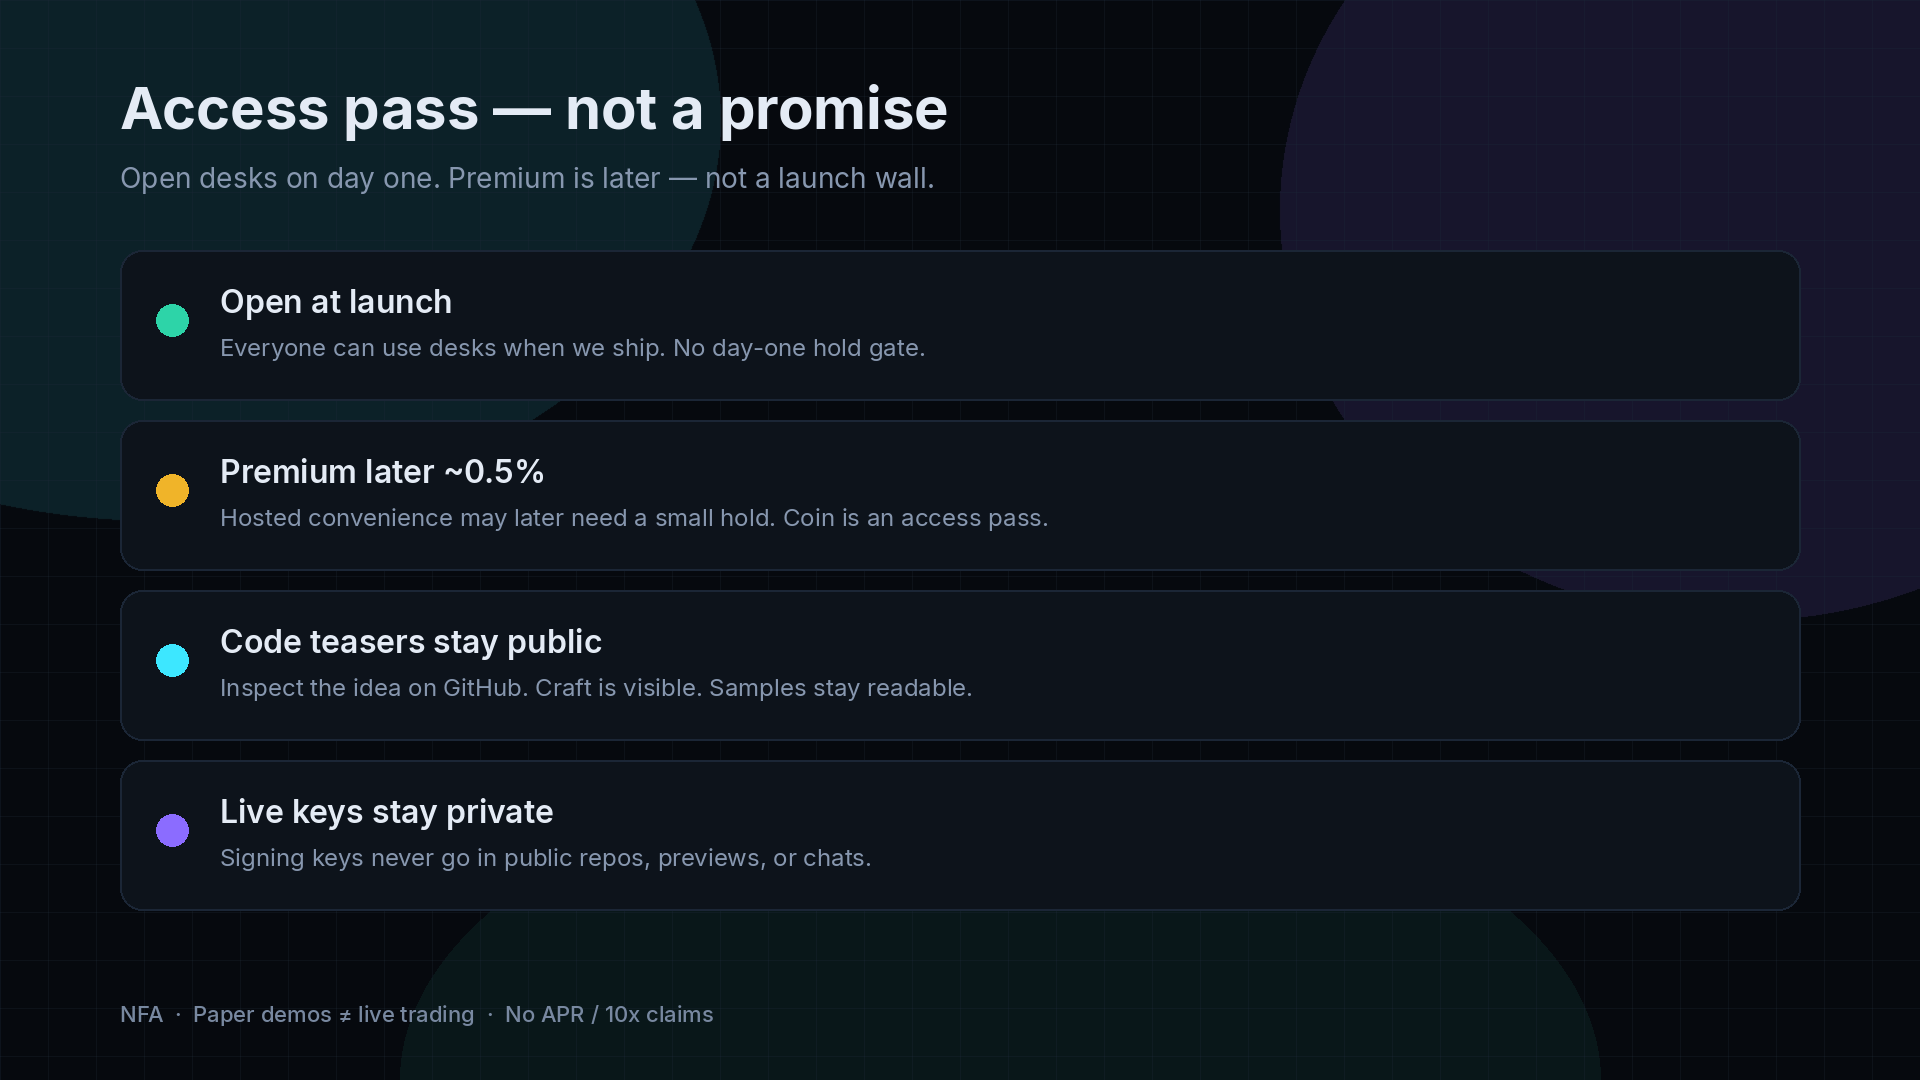
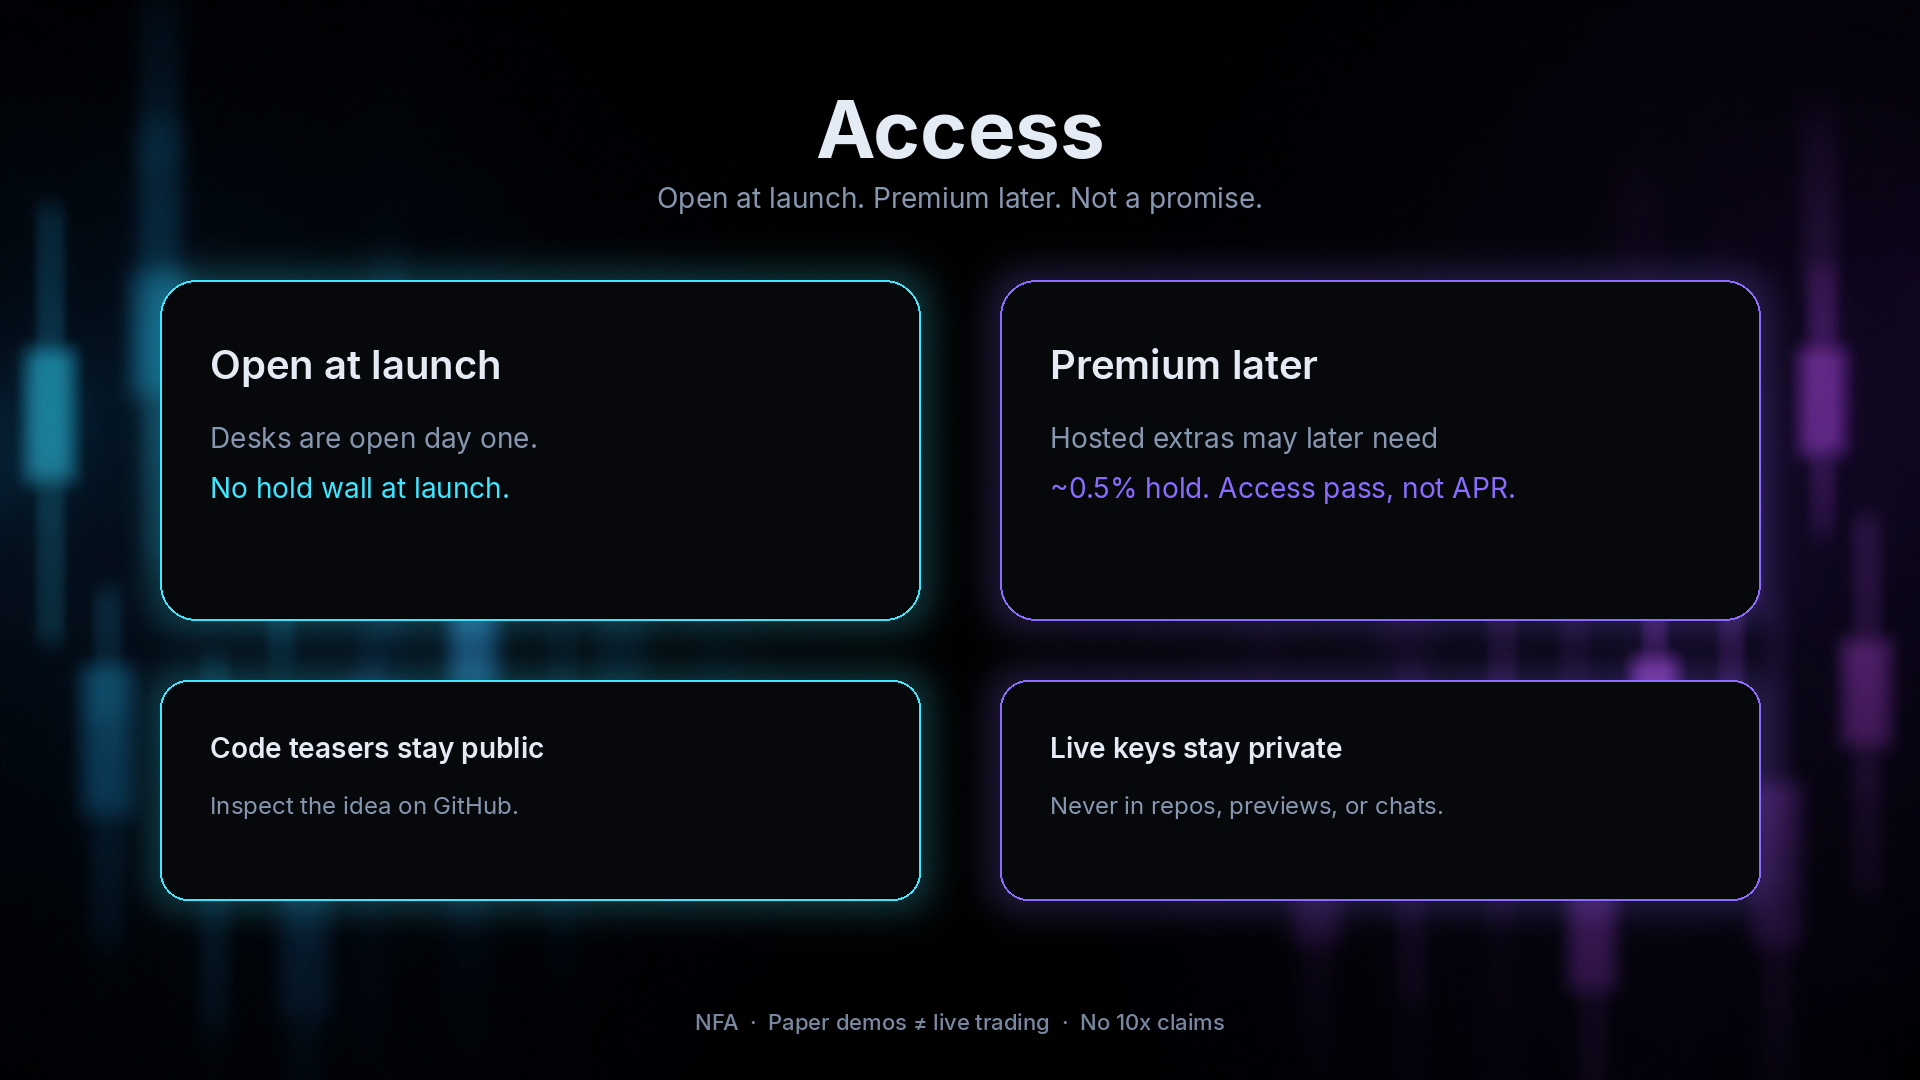
Keep fixed StaRK Bots hero; refresh section art to match
Restore 01-hero.jpg (tight StaRK Bots wordmark) as the live asset.
Redraw how/stack/access as HD glass-fintech graphics on the same
black candle-bokeh floor. Point OG/twitter back to jpg?v=2 and
tighten mobile type/spacing.

diff --git a/docs/index.html b/docs/index.html
@@ -8,10 +8,10 @@
 <meta property="og:title" content="StaRK Bots"/>
 <meta property="og:description" content="Tools you can inspect. Access you hold. Code first. Coin last."/>
 <meta property="og:url" content="https://starkcrypto.github.io/stark-tools/"/>
-<meta property="og:image" content="https://starkcrypto.github.io/stark-tools/assets/01-hero.png?v=3"/>
+<meta property="og:image" content="https://starkcrypto.github.io/stark-tools/assets/01-hero.jpg?v=2"/>
 <meta name="twitter:card" content="summary_large_image"/>
 <meta name="twitter:site" content="@StaRKCryptoBots"/>
-<meta name="twitter:image" content="https://starkcrypto.github.io/stark-tools/assets/01-hero.png?v=3"/>
+<meta name="twitter:image" content="https://starkcrypto.github.io/stark-tools/assets/01-hero.jpg?v=2"/>
 <link rel="icon" href="favicon.svg" type="image/svg+xml"/>
 <link rel="preconnect" href="https://fonts.googleapis.com"/>
 <link rel="preconnect" href="https://fonts.gstatic.com" crossorigin/>
@@ -90,8 +90,21 @@ footer .row{display:flex;flex-wrap:wrap;gap:12px;margin-bottom:16px}
   .nav-links{display:none}
   .menu-btn{display:inline-flex}
   .nav-links.open{display:flex;flex-direction:column;align-items:stretch;position:absolute;right:22px;top:62px;background:var(--panel);border:1px solid var(--line);border-radius:12px;padding:12px;min-width:200px;box-shadow:0 16px 40px rgba(0,0,0,.4)}
-  .hero{padding:32px 0 24px;gap:24px}
-  section{padding:40px 0}
+  .hero{padding:28px 0 20px;gap:20px}
+  section{padding:36px 0}
+  .hero h1{font-size:clamp(30px,9vw,42px);letter-spacing:-.025em}
+  .hero .lead{font-size:16px;margin-bottom:18px}
+  .btn{padding:11px 16px}
+  .statrow{gap:16px}
+  .nav-links.open{left:22px;right:22px;min-width:0}
+}
+@media(max-width:640px){
+  .wrap{padding:0 16px}
+  .cta .btn{flex:1 1 100%}
+  .socials{gap:12px;font-size:12px}
+  .logo{font-size:16px}
+  h2{font-size:clamp(22px,7vw,28px)}
+  .card,.step{min-height:0;padding:16px}
 }
 </style>
 </head>
@@ -125,9 +138,9 @@ footer .row{display:flex;flex-wrap:wrap;gap:12px;margin-bottom:16px}
         <a class="btn btn-ghost" href="https://github.com/StaRKCrypto/stark-tools/blob/main/docs/ABOUT-STARK-BOTS.md">Full article</a>
       </div>
       <div class="socials">
-        <a href="https://x.com/StaRKCryptoBots">X · @StaRKCryptoBots</a>
-        <a href="https://github.com/StaRKCrypto/stark-tools">GitHub</a>
-        <a href="https://www.youtube.com/@starksystems-y2r">YouTube</a>
+        <a href="https://x.com/StaRKCryptoBots" target="_blank" rel="noopener">X · @StaRKCryptoBots</a>
+        <a href="https://github.com/StaRKCrypto/stark-tools" target="_blank" rel="noopener">GitHub</a>
+        <a href="https://www.youtube.com/@starksystems-y2r" target="_blank" rel="noopener">YouTube</a>
       </div>
       <div class="live">
         <span class="chip">● Landing live</span>
@@ -141,13 +154,13 @@ footer .row{display:flex;flex-wrap:wrap;gap:12px;margin-bottom:16px}
         <div class="stat"><strong>Public</strong><span>sample source</span></div>
       </div>
     </div>
-    <div class="hero-media"><img src="assets/01-hero.png?v=3" width="1920" height="1080" alt="StaRK Bots — tools you can inspect, access you hold"/></div>
+    <div class="hero-media"><img src="assets/01-hero.jpg?v=2" width="1600" height="900" alt="StaRK Bots — tools you can inspect, access you hold"/></div>
   </header>
 
   <section id="how">
     <h2>How it works</h2>
     <p class="sub">One pipeline for every desk: prove the idea in public, keep keys private. Desks open at launch; later premium may need ~0.5% hold.</p>
-    <div class="fig"><img src="assets/02-how.png?v=3" width="1920" height="1080" alt="How StaRK Bots works: public teasers, paper demos, open at launch"/></div>
+    <div class="fig"><img src="assets/02-how.png?v=4" width="1920" height="1080" alt="How StaRK Bots works: public teasers, paper demos, open at launch"/></div>
     <div class="steps">
       <div class="step"><div class="n">01 / VERIFY</div><h3>Public teasers</h3><p>Clean sample repos on GitHub. Inspect the craft. No live wallets or signing keys in the open.</p></div>
       <div class="step"><div class="n">02 / WATCH</div><h3>Paper demos</h3><p>Each bot shown end-to-end on @StaRKCryptoBots — scan, arm, paper fill. Clearly labeled demo.</p></div>
@@ -158,7 +171,7 @@ footer .row{display:flex;flex-wrap:wrap;gap:12px;margin-bottom:16px}
   <section id="stack">
     <h2>The stack</h2>
     <p class="sub">First wave of desks with public teasers + demos. Many more in the pipeline.</p>
-    <div class="fig"><img src="assets/03-stack.png?v=3" width="1920" height="1080" alt="StaRK Bots desk stack"/></div>
+    <div class="fig"><img src="assets/03-stack.png?v=4" width="1920" height="1080" alt="StaRK Bots desk stack"/></div>
     <div class="grid" id="bots"></div>
   </section>
 
@@ -181,7 +194,7 @@ footer .row{display:flex;flex-wrap:wrap;gap:12px;margin-bottom:16px}
 
   <section id="access">
     <h2>Access pass — not a promise</h2>
-    <div class="fig"><img src="assets/04-access.png?v=3" width="1920" height="1080" alt="Access pass: open at launch, premium later, keys private"/></div>
+    <div class="fig"><img src="assets/04-access.png?v=4" width="1920" height="1080" alt="Access pass: open at launch, premium later, keys private"/></div>
     <div class="panel">
       <ul>
         <li><strong>Open at launch</strong> — later premium tools may need ~0.5% hold.</li>
@@ -239,7 +252,7 @@ footer .row{display:flex;flex-wrap:wrap;gap:12px;margin-bottom:16px}
     <div class="row">
       <a class="btn btn-primary" href="https://x.com/StaRKCryptoBots">Follow @StaRKCryptoBots</a>
       <a class="btn btn-ghost" href="https://github.com/StaRKCrypto/stark-tools">Star GitHub hub</a>
-      <a class="btn btn-ghost" href="https://www.youtube.com/@starksystems-y2r">YouTube</a>
+      <a class="btn btn-ghost" href="https://www.youtube.com/@starksystems-y2r" target="_blank" rel="noopener">YouTube</a>
       <a class="btn btn-ghost" href="https://x.com/StaRKCryptoBots/status/2100506806254461058">Landing announce</a>
     </div>
     StaRKCrypto · Brand managed by Grok Bot · Personal @_Starkcrypto · MIT on public teasers · NFA<br/>

diff --git a/tools/render_marketing_art.py b/tools/render_marketing_art.py
@@ -9,6 +9,7 @@ from PIL import Image, ImageDraw, ImageFilter, ImageFont
 ROOT = Path(__file__).resolve().parents[1] / "docs"
 ASSETS = ROOT / "assets"
 BG = Path(__file__).resolve().parent / "hero-bg-notext.png"
+SECTION_BG = Path(__file__).resolve().parent / "section-bg-notext.png"
 
 CYAN = (61, 231, 255)
 VIOLET = (139, 108, 255)
@@ -111,61 +112,66 @@ def make_hero() -> None:
     print("wrote", out_png, rgb.size)
 
 
-def card_bg(size=(1920, 1080)) -> Image.Image:
+def section_canvas(size=(1920, 1080)) -> Image.Image:
+    """Black fintech floor matching the live 01-hero.jpg (bokeh candles, empty center)."""
     W, H = size
-    img = Image.new("RGB", (W, H), BG_DARK)
-    d = ImageDraw.Draw(img, "RGBA")
-    d.ellipse((-400, -280, 720, 520), fill=(61, 231, 255, 28))
-    d.ellipse((1280, -200, 2200, 620), fill=(139, 108, 255, 32))
-    d.ellipse((400, 760, 1600, 1400), fill=(45, 212, 168, 18))
-    # faint grid
-    for x in range(0, W, 48):
-        d.line([(x, 0), (x, H)], fill=(27, 38, 54, 90), width=1)
-    for y in range(0, H, 48):
-        d.line([(0, y), (W, y)], fill=(27, 38, 54, 90), width=1)
-    return img.filter(ImageFilter.GaussianBlur(0.4))
+    bg = Image.open(SECTION_BG).convert("RGB").resize((W, H), Image.Resampling.LANCZOS)
+    # Darken the middle so type/cards stay crisp.
+    veil = Image.new("RGBA", (W, H), (0, 0, 0, 70))
+    return Image.alpha_composite(bg.convert("RGBA"), veil)
+
+
+def glass_card(img: Image.Image, box, radius: int, glow: tuple[int, int, int]) -> None:
+    x0, y0, x1, y1 = box
+    glow_layer = Image.new("RGBA", img.size, (0, 0, 0, 0))
+    gd = ImageDraw.Draw(glow_layer)
+    pad = 22
+    gd.rounded_rectangle([x0 - pad, y0 - pad, x1 + pad, y1 + pad], radius=radius + 10, fill=(*glow, 55))
+    img.alpha_composite(glow_layer.filter(ImageFilter.GaussianBlur(18)))
+    d = ImageDraw.Draw(img)
+    d.rounded_rectangle(box, radius=radius, fill=(6, 8, 12, 210), outline=(*glow, 210), width=2)
 
 
 def make_how() -> None:
     W, H = 1920, 1080
-    img = card_bg((W, H)).convert("RGBA")
+    img = section_canvas((W, H))
     d = ImageDraw.Draw(img)
-    title = font("Inter-Bold.ttf", 64)
-    d.text((120, 72), "How it works", font=title, fill=TEXT)
-    sub = font("Inter-Regular.ttf", 28)
-    d.text((120, 160), "One pipeline. Public proof first. Keys never on GitHub.", font=sub, fill=MUTE)
+    title = "How it works"
+    tf = font("Inter-Bold.ttf", 72)
+    d.text((center_x(d, title, tf, W), 88), title, font=tf, fill=TEXT)
+    sub = "Public proof first. Desks open at launch. Keys never on GitHub."
+    sf = font("Inter-Regular.ttf", 28)
+    d.text((center_x(d, sub, sf, W), 178), sub, font=sf, fill=MUTE)
 
     cards = [
-        ("01", "VERIFY", "Public teasers", "Clean sample repos.\nInspect the craft.\nNo live wallets or\nsigning keys in the open."),
-        ("02", "WATCH", "Paper demos", "Each desk shown on X —\nscan, arm, paper fill.\nClearly labeled demo.\nNot live trading."),
-        ("03", "ACCESS", "Open first", "Desks open at launch.\nNo day-one hold wall.\nLater premium may need\n~0.5% hold."),
+        (CYAN, "01", "Public teasers", "Inspect sample repos.\nNo live wallets.\nNo signing keys in the open."),
+        (VIOLET, "02", "Paper demos", "Each desk on X —\nscan, arm, paper fill.\nLabeled demo, not live."),
+        ((180, 140, 255), "03", "Open first", "Open at launch.\nNo day-one hold wall.\nPremium later ~0.5%."),
     ]
-    x0, y0, cw, ch, gap = 120, 250, 540, 640, 40
-    for i, (n, kicker, h, body) in enumerate(cards):
+    x0, y0, cw, ch, gap = 150, 280, 520, 560, 30
+    for i, (glow, n, h, body) in enumerate(cards):
         x = x0 + i * (cw + gap)
-        rounded(d, [x, y0, x + cw, y0 + ch], 28, fill=PANEL, outline=LINE, width=2)
-        nf = mono(22, bold=True)
-        d.text((x + 36, y0 + 36), f"{n}  /  {kicker}", font=nf, fill=CYAN)
-        hf = font("Inter-Bold.ttf", 40)
-        d.text((x + 36, y0 + 96), h, font=hf, fill=TEXT)
-        d.rounded_rectangle([x + 36, y0 + 160, x + 140, y0 + 166], radius=3, fill=VIOLET if i == 2 else CYAN)
-        bf = font("Inter-Regular.ttf", 28)
-        d.multiline_text((x + 36, y0 + 200), body, font=bf, fill=MUTE, spacing=10)
-        if i < 2:
-            ax = x + cw + 4
-            d.polygon([(ax, y0 + ch / 2 - 12), (ax + 22, y0 + ch / 2), (ax, y0 + ch / 2 + 12)], fill=CYAN)
+        glass_card(img, [x, y0, x + cw, y0 + ch], 36, glow)
+        d = ImageDraw.Draw(img)
+        d.text((x + 44, y0 + 48), n, font=font("Inter-Bold.ttf", 56), fill=glow)
+        d.text((x + 44, y0 + 140), h, font=font("Inter-SemiBold.ttf", 36), fill=TEXT)
+        d.multiline_text((x + 44, y0 + 220), body, font=font("Inter-Regular.ttf", 26), fill=MUTE, spacing=12)
 
-    foot = font("Inter-Medium.ttf", 22)
-    d.text((120, 980), "StaRK Bots  ·  Code first. Coin last. NFA.", font=foot, fill=(120, 136, 160))
+    foot = "StaRK Bots  ·  Code first. Coin last. NFA."
+    ff = font("Inter-Medium.ttf", 22)
+    d.text((center_x(d, foot, ff, W), 1008), foot, font=ff, fill=(120, 136, 160))
     save_pair(img, "02-how")
 
 
 def make_stack() -> None:
     W, H = 1920, 1080
-    img = card_bg((W, H)).convert("RGBA")
+    img = section_canvas((W, H))
     d = ImageDraw.Draw(img)
-    d.text((120, 64), "The stack", font=font("Inter-Bold.ttf", 64), fill=TEXT)
-    d.text((120, 148), "First wave of desks — public teasers + paper demos. More shipping.", font=font("Inter-Regular.ttf", 26), fill=MUTE)
+    d.text((120, 72), "The stack", font=font("Inter-Bold.ttf", 64), fill=TEXT)
+    d.text((120, 156), "First wave — public teasers + paper demos. More shipping.", font=font("Inter-Regular.ttf", 26), fill=MUTE)
+    brand = "StaRK Bots"
+    bf = font("Inter-SemiBold.ttf", 28)
+    d.text((W - 120 - d.textbbox((0, 0), brand, font=bf)[2], 80), brand, font=bf, fill=TEXT)
 
     desks = [
         ("01", "S/R Desk", "Zones → paper trade"),
@@ -181,48 +187,62 @@ def make_stack() -> None:
         ("11", "Farmer", "Volume-farm notes"),
         ("12", "Weather bot", "Weather agent sample"),
     ]
-    cols, rows = 4, 3
-    x0, y0, cw, ch, gx, gy = 120, 230, 420, 220, 20, 20
+    cols = 4
+    x0, y0, cw, ch, gx, gy = 120, 230, 420, 220, 20, 18
+    glows = [CYAN, VIOLET, CYAN, VIOLET]
     for i, (n, name, blurb) in enumerate(desks):
         c, r = i % cols, i // cols
         x = x0 + c * (cw + gx)
         y = y0 + r * (ch + gy)
-        rounded(d, [x, y, x + cw, y + ch], 22, fill=PANEL2, outline=LINE, width=2)
-        d.text((x + 28, y + 28), n, font=mono(18, bold=True), fill=CYAN)
+        glass_card(img, [x, y, x + cw, y + ch], 24, glows[c])
+        d = ImageDraw.Draw(img)
+        d.text((x + 28, y + 28), n, font=font("Inter-Medium.ttf", 18), fill=CYAN)
         d.text((x + 28, y + 70), name, font=font("Inter-SemiBold.ttf", 30), fill=TEXT)
         d.text((x + 28, y + 128), blurb, font=font("Inter-Regular.ttf", 22), fill=MUTE)
 
-    d.text((120, 1008), "StaRK Bots  ·  11+ desk teasers  ·  sample source public", font=font("Inter-Medium.ttf", 22), fill=(120, 136, 160))
+    foot = "11+ desk teasers  ·  sample source public"
+    ff = font("Inter-Medium.ttf", 22)
+    d.text((center_x(d, foot, ff, W), 1010), foot, font=ff, fill=(120, 136, 160))
     save_pair(img, "03-stack")
 
 
 def make_access() -> None:
     W, H = 1920, 1080
-    img = card_bg((W, H)).convert("RGBA")
+    img = section_canvas((W, H))
     d = ImageDraw.Draw(img)
-    d.text((120, 72), "Access pass — not a promise", font=font("Inter-Bold.ttf", 58), fill=TEXT)
-    d.text((120, 160), "Open desks on day one. Premium is later — not a launch wall.", font=font("Inter-Regular.ttf", 28), fill=MUTE)
+    title = "Access"
+    tf = font("Inter-Bold.ttf", 80)
+    d.text((center_x(d, title, tf, W), 80), title, font=tf, fill=TEXT)
+    sub = "Open at launch. Premium later. Not a promise."
+    sf = font("Inter-Regular.ttf", 28)
+    d.text((center_x(d, sub, sf, W), 180), sub, font=sf, fill=MUTE)
 
-    rows = [
-        (GREEN, "Open at launch", "Everyone can use desks when we ship. No day-one hold gate."),
-        (GOLD, "Premium later ~0.5%", "Hosted convenience may later need a small hold. Coin is an access pass."),
-        (CYAN, "Code teasers stay public", "Inspect the idea on GitHub. Craft is visible. Samples stay readable."),
-        (VIOLET, "Live keys stay private", "Signing keys never go in public repos, previews, or chats."),
-    ]
-    y = 250
-    for color, title, body in rows:
-        rounded(d, [120, y, 1800, y + 150], 22, fill=PANEL, outline=LINE, width=2)
-        d.ellipse([156, y + 54, 188, y + 86], fill=color)
-        d.text((220, y + 32), title, font=font("Inter-SemiBold.ttf", 32), fill=TEXT)
-        d.text((220, y + 82), body, font=font("Inter-Regular.ttf", 24), fill=MUTE)
-        y += 170
+    glass_card(img, [160, 280, 920, 620], 36, CYAN)
+    glass_card(img, [1000, 280, 1760, 620], 36, VIOLET)
+    d = ImageDraw.Draw(img)
+    d.text((210, 340), "Open at launch", font=font("Inter-SemiBold.ttf", 40), fill=TEXT)
+    d.text((210, 420), "Desks are open day one.", font=font("Inter-Regular.ttf", 28), fill=MUTE)
+    d.text((210, 470), "No hold wall at launch.", font=font("Inter-Regular.ttf", 28), fill=CYAN)
+    d.text((1050, 340), "Premium later", font=font("Inter-SemiBold.ttf", 40), fill=TEXT)
+    d.text((1050, 420), "Hosted extras may later need", font=font("Inter-Regular.ttf", 28), fill=MUTE)
+    d.text((1050, 470), "~0.5% hold. Access pass, not APR.", font=font("Inter-Regular.ttf", 28), fill=VIOLET)
 
-    d.text((120, 1000), "NFA  ·  Paper demos ≠ live trading  ·  No APR / 10x claims", font=font("Inter-Medium.ttf", 22), fill=(120, 136, 160))
+    glass_card(img, [160, 680, 920, 900], 28, CYAN)
+    glass_card(img, [1000, 680, 1760, 900], 28, VIOLET)
+    d = ImageDraw.Draw(img)
+    d.text((210, 730), "Code teasers stay public", font=font("Inter-SemiBold.ttf", 28), fill=TEXT)
+    d.text((210, 790), "Inspect the idea on GitHub.", font=font("Inter-Regular.ttf", 24), fill=MUTE)
+    d.text((1050, 730), "Live keys stay private", font=font("Inter-SemiBold.ttf", 28), fill=TEXT)
+    d.text((1050, 790), "Never in repos, previews, or chats.", font=font("Inter-Regular.ttf", 24), fill=MUTE)
+
+    foot = "NFA  ·  Paper demos ≠ live trading  ·  No 10x claims"
+    ff = font("Inter-Medium.ttf", 22)
+    d.text((center_x(d, foot, ff, W), 1008), foot, font=ff, fill=(120, 136, 160))
     save_pair(img, "04-access")
 
 
 if __name__ == "__main__":
-    make_hero()
+    # Do not regenerate 01-hero — live jpg wordmark is already correct.
     make_how()
     make_stack()
     make_access()
